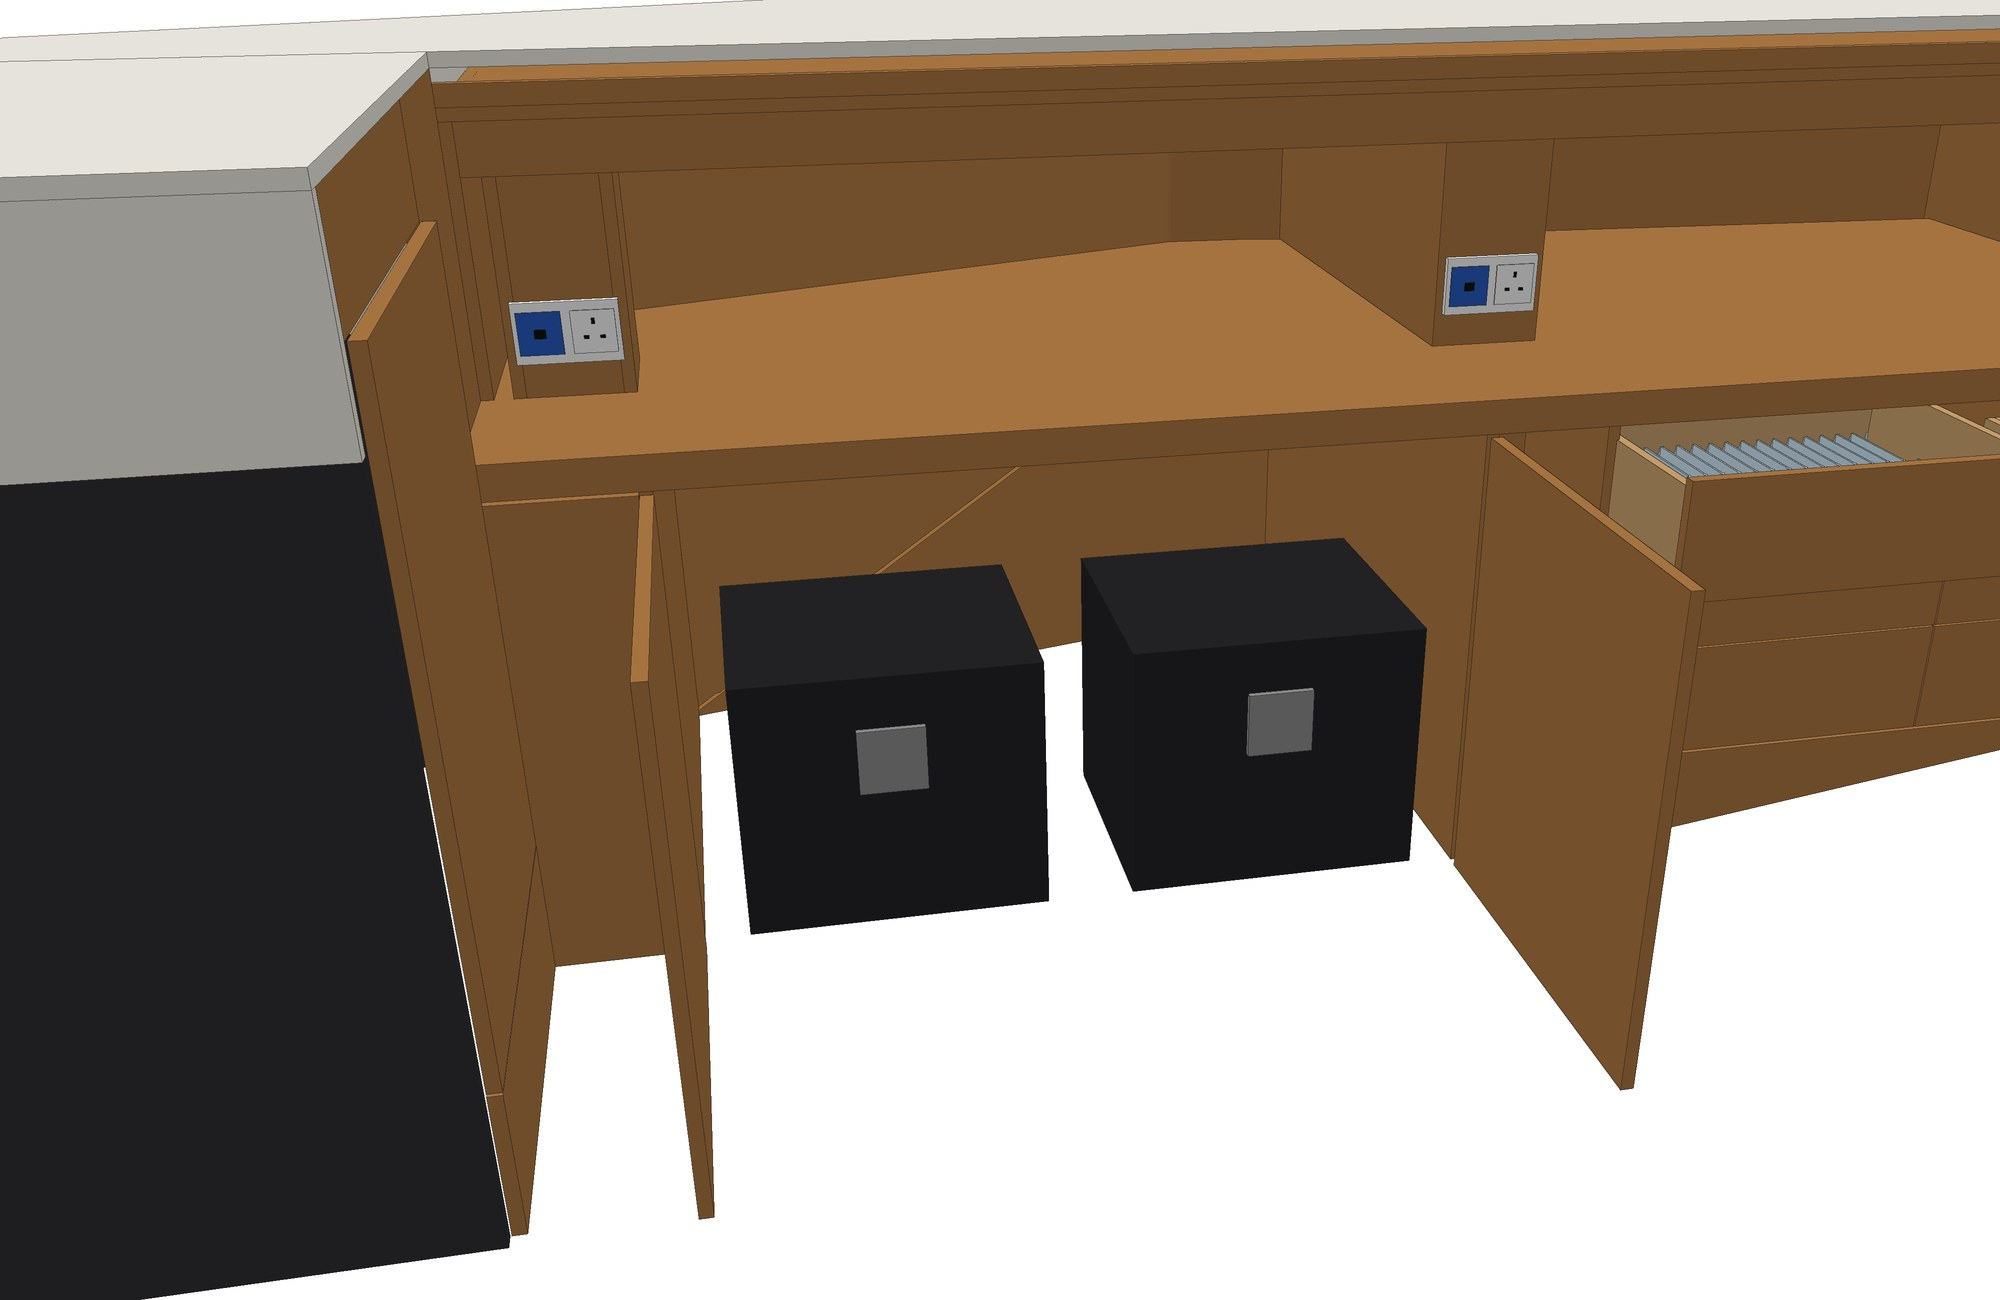
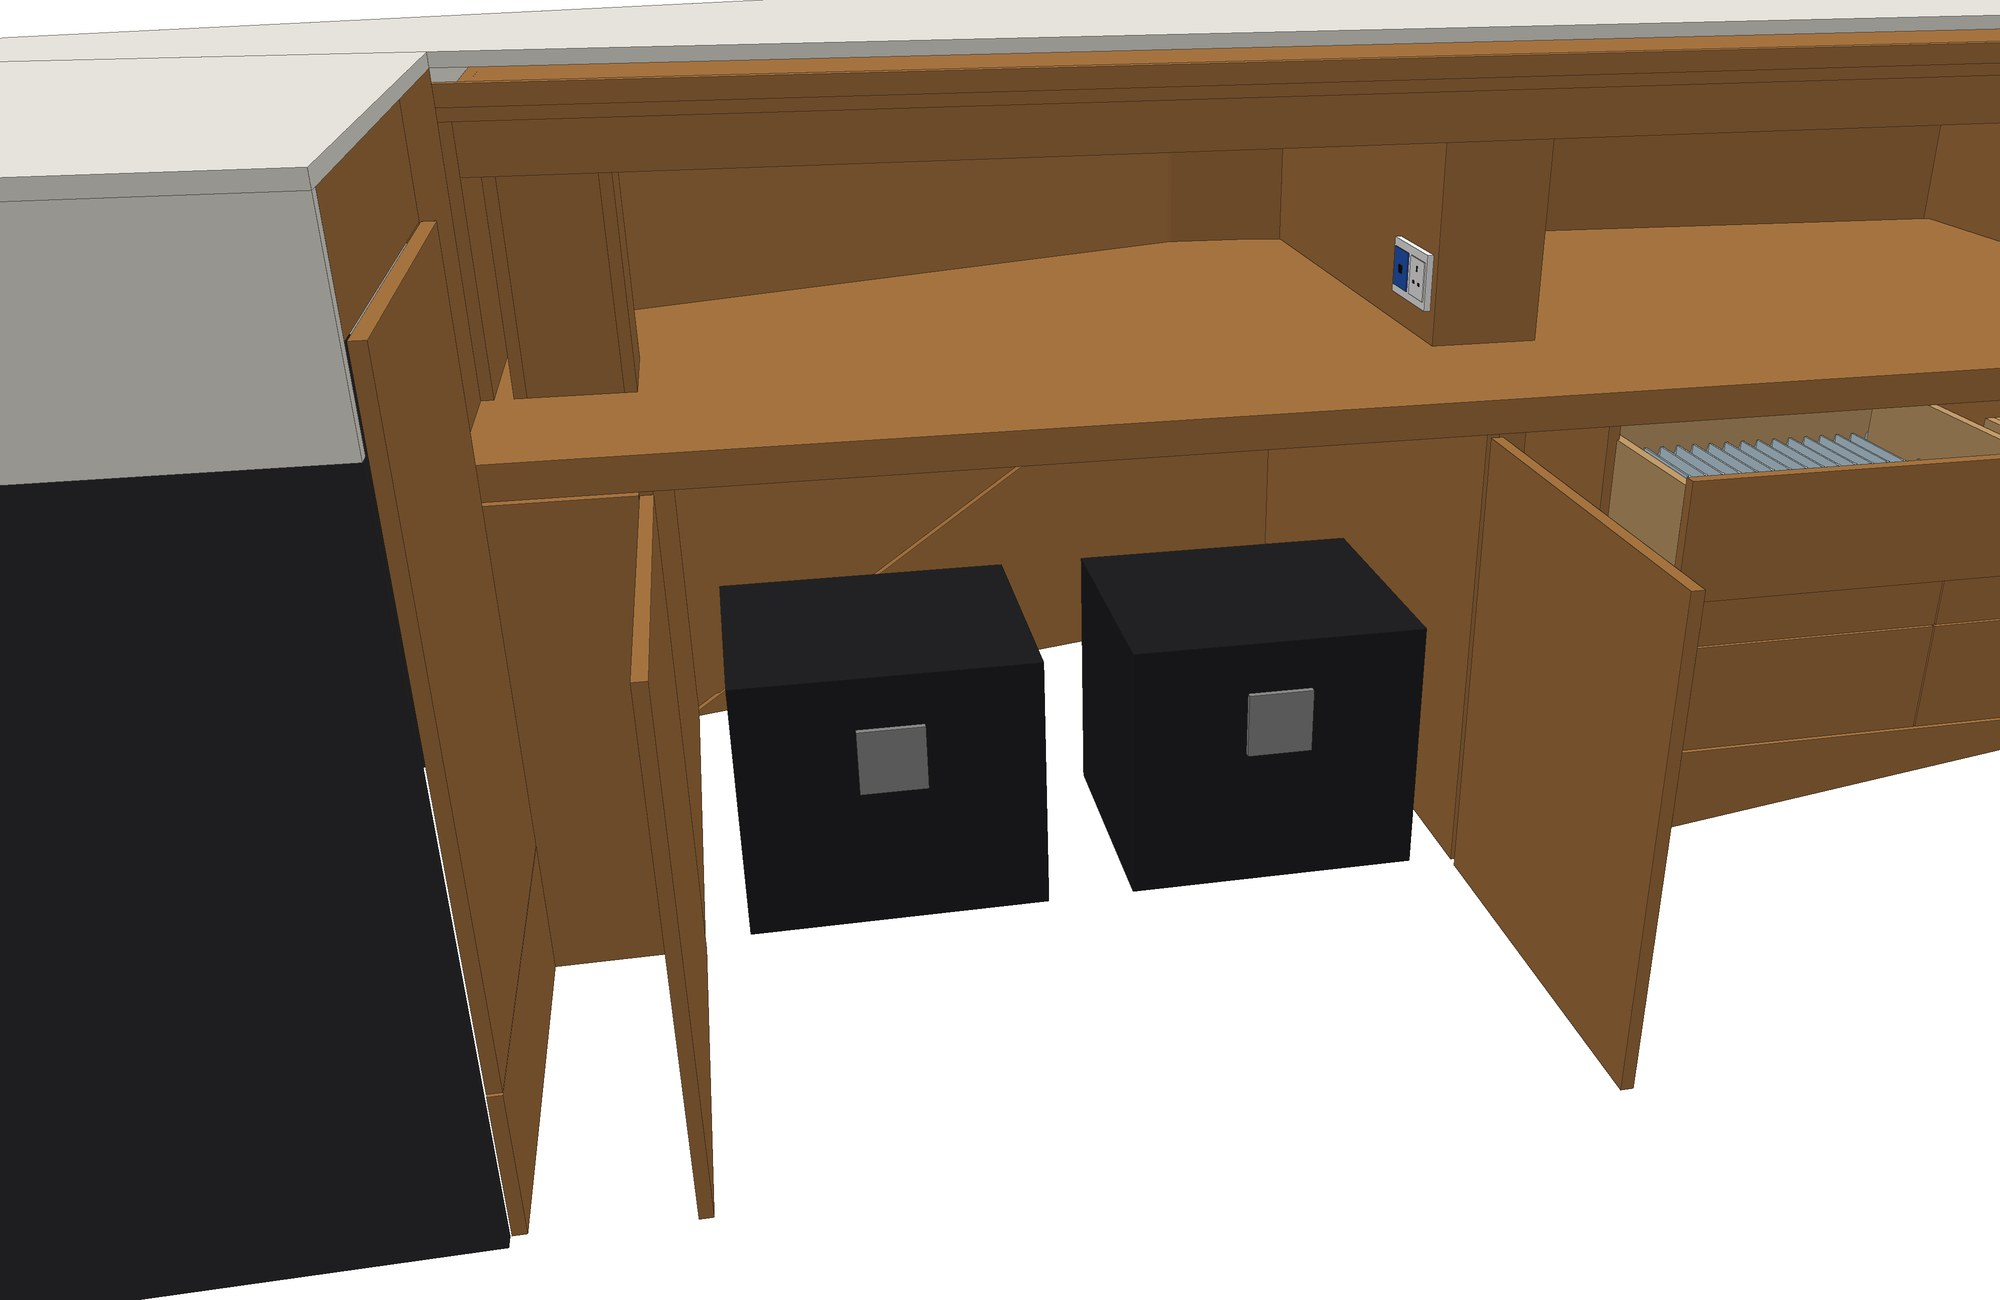
Reception desk: horizontal 2-gang socket plate on the partition side face
Claude-Session: https://claude.ai/code/session_0113K5N3bEcSHPxoNJZbabkf

Changed region(s): [[0.682, 0.1846, 0.775, 0.2462], [0.248, 0.2154, 0.31, 0.2769]]

diff --git a/reception-desk/index.html b/reception-desk/index.html
@@ -22,9 +22,9 @@ footer{text-align:center;color:#444;font-size:14px;padding:20px}</style></head><
 <li>الفتحة 2: <b>6 أدراج</b> (عمودان × 3) وأسفلها شريط ثابت مائل مع خط الحجر. الفتحات 3 إلى 6: <b>مكان للأرجل</b>.</li>
 <li><b>الأدراج:</b> قواطع <b>بليكسي</b> شفافة بارتفاع 5 سم مع <b>فتحة إصبع</b> – <b>كل خانة لغرفة واحدة</b> (جوازات النزلاء + بطاقة المفتاح) – 57 خانة في كل درج، المجموع <b>342 خانة لـ 330 غرفة</b> – عمق الدرج 45 سم.</li>
 <li>عرض كل عمود <b>17 سم</b> بعد الكسوة. القواطع الوسطى تقسّم سطح العمل إلى <b>رفوف</b> وتنزل مائلة نحو الحجر.</li>
-<li><b>الذراع الطويل B:</b> 4 أبواب. <b>الذراع القصير C:</b> باب واحد. الأبواب حتى ارتفاع <b>106 سم</b> وفوقها جبهة خشب، وتحتها <b>قاعدة ثابتة 20 سم</b> على كامل الطول.</li><li><b>الكهرباء:</b> في كل فتحة <b>مقبس كهرباء + مقبس شبكة إنترنت</b> (12 مقبساً) على <b>الوجه الأمامي للقاطع الخشبي</b> فوق سطح العمل (إطار + مقبس) – مقبس الكهرباء بريطاني ثلاثي (BS 1363) – النوع يُؤكَّد.</li>
+<li><b>الذراع الطويل B:</b> 4 أبواب. <b>الذراع القصير C:</b> باب واحد. الأبواب حتى ارتفاع <b>106 سم</b> وفوقها جبهة خشب، وتحتها <b>قاعدة ثابتة 20 سم</b> على كامل الطول.</li><li><b>الكهرباء:</b> في كل فتحة <b>مقبس كهرباء + مقبس شبكة إنترنت</b> (12 مقبساً) على <b>الجانب الخشبي لكل فتحة</b> (إطار ثنائي أفقي قرب الحافة الأمامية) فوق سطح العمل (إطار + مقبس) – مقبس الكهرباء بريطاني ثلاثي (BS 1363) – النوع يُؤكَّد.</li>
 <li>مقاسات الخزنتين والمقابس في المخططات تقريبية وتُؤكَّد حسب الأجهزة الفعلية. الأجزاء المائلة تُؤخذ <b>بقالب من الموقع</b>.</li></ul></div>
-<h2>صور ثلاثية الأبعاد</h2><div class="g"><figure><a href="img/r_out.jpg?v=1794315328" target="_blank"><img src="img/r_out.jpg?v=1794315328" loading="lazy" alt="من الخارج – جهة الضيوف"></a><figcaption>من الخارج – جهة الضيوف</figcaption></figure><figure><a href="img/r_in1.jpg?v=1794315328" target="_blank"><img src="img/r_in1.jpg?v=1794315328" loading="lazy" alt="من الداخل – جهة الموظف"></a><figcaption>من الداخل – جهة الموظف</figcaption></figure><figure><a href="img/r_drawer.jpg?v=1794315328" target="_blank"><img src="img/r_drawer.jpg?v=1794315328" loading="lazy" alt="الأدراج – خانة لكل غرفة"></a><figcaption>الأدراج – خانة لكل غرفة</figcaption></figure><figure><a href="img/r_socket.jpg?v=1794315328" target="_blank"><img src="img/r_socket.jpg?v=1794315328" loading="lazy" alt="تفصيل المقابس"></a><figcaption>تفصيل المقابس – كهرباء + إنترنت على القاطع</figcaption></figure><figure><a href="img/r_safe.jpg?v=1794315328" target="_blank"><img src="img/r_safe.jpg?v=1794315328" loading="lazy" alt="الخزانة – خزنتان"></a><figcaption>الخزانة – خزنتان</figcaption></figure><figure><a href="img/r_fridge.jpg?v=1794315328" target="_blank"><img src="img/r_fridge.jpg?v=1794315328" loading="lazy" alt="الذراع B من الداخل"></a><figcaption>الذراع B من الداخل</figcaption></figure><figure><a href="img/r_in2.jpg?v=1794315328" target="_blank"><img src="img/r_in2.jpg?v=1794315328" loading="lazy" alt="واجهة داخلية مباشرة"></a><figcaption>واجهة داخلية مباشرة</figcaption></figure><figure><a href="img/r_top.jpg?v=1794315328" target="_blank"><img src="img/r_top.jpg?v=1794315328" loading="lazy" alt="منظر علوي من الطرف"></a><figcaption>منظر علوي من الطرف</figcaption></figure></div>
-<h2>المخططات</h2><div class="g"><figure><a href="img/plan1.jpg?v=1794315328" target="_blank"><img src="img/plan1.jpg?v=1794315328" loading="lazy" alt="المسقط الأفقي – مفتاح الواجهات"></a><figcaption>المسقط الأفقي – مفتاح الواجهات</figcaption></figure><figure><a href="img/plan2.jpg?v=1794315328" target="_blank"><img src="img/plan2.jpg?v=1794315328" loading="lazy" alt="الواجهة الداخلية A – من جهة الموظف"></a><figcaption>الواجهة الداخلية A – من جهة الموظف</figcaption></figure><figure><a href="img/plan3.jpg?v=1794315328" target="_blank"><img src="img/plan3.jpg?v=1794315328" loading="lazy" alt="الذراعان من الداخل – B و C"></a><figcaption>الذراعان من الداخل – B و C</figcaption></figure><figure><a href="img/plan4.jpg?v=1794315328" target="_blank"><img src="img/plan4.jpg?v=1794315328" loading="lazy" alt="مقاطع – مسار التكسية الداخلية"></a><figcaption>مقاطع – مسار التكسية الداخلية</figcaption></figure><figure><a href="img/plan7.jpg?v=1794315328" target="_blank"><img src="img/plan7.jpg?v=1794315328" loading="lazy" alt="تفاصيل الأدراج – خانة لكل غرفة"></a><figcaption>تفاصيل الأدراج – خانة لكل غرفة</figcaption></figure><figure><a href="img/plan8.jpg?v=1794315328" target="_blank"><img src="img/plan8.jpg?v=1794315328" loading="lazy" alt="المواصفات وترتيب الجوازات والبطاقات"></a><figcaption>المواصفات وترتيب الجوازات والبطاقات</figcaption></figure></div>
+<h2>صور ثلاثية الأبعاد</h2><div class="g"><figure><a href="img/r_out.jpg?v=1794315586" target="_blank"><img src="img/r_out.jpg?v=1794315586" loading="lazy" alt="من الخارج – جهة الضيوف"></a><figcaption>من الخارج – جهة الضيوف</figcaption></figure><figure><a href="img/r_in1.jpg?v=1794315586" target="_blank"><img src="img/r_in1.jpg?v=1794315586" loading="lazy" alt="من الداخل – جهة الموظف"></a><figcaption>من الداخل – جهة الموظف</figcaption></figure><figure><a href="img/r_drawer.jpg?v=1794315586" target="_blank"><img src="img/r_drawer.jpg?v=1794315586" loading="lazy" alt="الأدراج – خانة لكل غرفة"></a><figcaption>الأدراج – خانة لكل غرفة</figcaption></figure><figure><a href="img/r_socket.jpg?v=1794315586" target="_blank"><img src="img/r_socket.jpg?v=1794315586" loading="lazy" alt="تفصيل المقابس"></a><figcaption>تفصيل المقابس – كهرباء + إنترنت على القاطع</figcaption></figure><figure><a href="img/r_safe.jpg?v=1794315586" target="_blank"><img src="img/r_safe.jpg?v=1794315586" loading="lazy" alt="الخزانة – خزنتان"></a><figcaption>الخزانة – خزنتان</figcaption></figure><figure><a href="img/r_fridge.jpg?v=1794315586" target="_blank"><img src="img/r_fridge.jpg?v=1794315586" loading="lazy" alt="الذراع B من الداخل"></a><figcaption>الذراع B من الداخل</figcaption></figure><figure><a href="img/r_in2.jpg?v=1794315586" target="_blank"><img src="img/r_in2.jpg?v=1794315586" loading="lazy" alt="واجهة داخلية مباشرة"></a><figcaption>واجهة داخلية مباشرة</figcaption></figure><figure><a href="img/r_top.jpg?v=1794315586" target="_blank"><img src="img/r_top.jpg?v=1794315586" loading="lazy" alt="منظر علوي من الطرف"></a><figcaption>منظر علوي من الطرف</figcaption></figure></div>
+<h2>المخططات</h2><div class="g"><figure><a href="img/plan1.jpg?v=1794315586" target="_blank"><img src="img/plan1.jpg?v=1794315586" loading="lazy" alt="المسقط الأفقي – مفتاح الواجهات"></a><figcaption>المسقط الأفقي – مفتاح الواجهات</figcaption></figure><figure><a href="img/plan2.jpg?v=1794315586" target="_blank"><img src="img/plan2.jpg?v=1794315586" loading="lazy" alt="الواجهة الداخلية A – من جهة الموظف"></a><figcaption>الواجهة الداخلية A – من جهة الموظف</figcaption></figure><figure><a href="img/plan3.jpg?v=1794315586" target="_blank"><img src="img/plan3.jpg?v=1794315586" loading="lazy" alt="الذراعان من الداخل – B و C"></a><figcaption>الذراعان من الداخل – B و C</figcaption></figure><figure><a href="img/plan4.jpg?v=1794315586" target="_blank"><img src="img/plan4.jpg?v=1794315586" loading="lazy" alt="مقاطع – مسار التكسية الداخلية"></a><figcaption>مقاطع – مسار التكسية الداخلية</figcaption></figure><figure><a href="img/plan7.jpg?v=1794315586" target="_blank"><img src="img/plan7.jpg?v=1794315586" loading="lazy" alt="تفاصيل الأدراج – خانة لكل غرفة"></a><figcaption>تفاصيل الأدراج – خانة لكل غرفة</figcaption></figure><figure><a href="img/plan8.jpg?v=1794315586" target="_blank"><img src="img/plan8.jpg?v=1794315586" loading="lazy" alt="المواصفات وترتيب الجوازات والبطاقات"></a><figcaption>المواصفات وترتيب الجوازات والبطاقات</figcaption></figure></div>
 <p class="hint">اضغط على أي صورة لفتحها بالحجم الكامل ثم كبّرها بإصبعين.</p></main>
-<script src="viewer.js?v=1794315328"></script><script>initViewer(document.getElementById('v'),'model.glb?v=1794315328');</script></body></html>
+<script src="viewer.js?v=1794315586"></script><script>initViewer(document.getElementById('v'),'model.glb?v=1794315586');</script></body></html>
